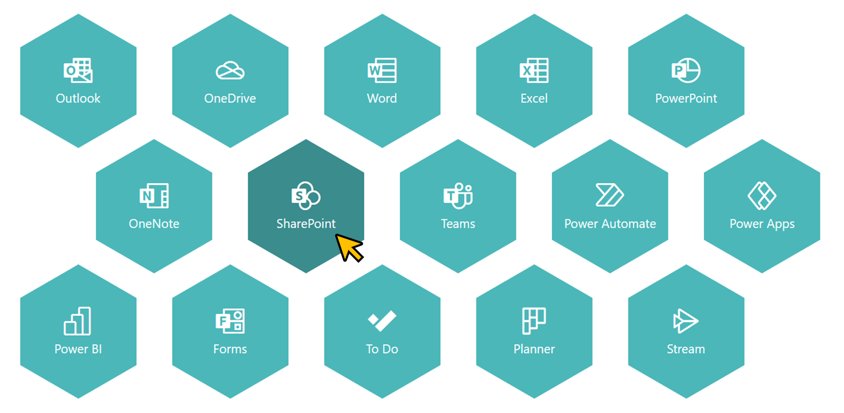
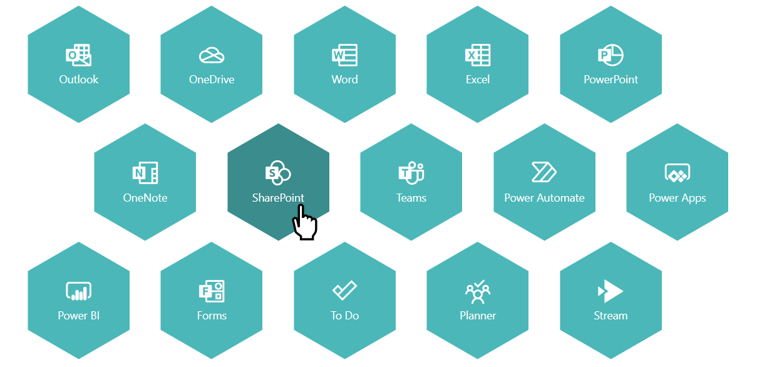
Fixed a layout collapse when opened in Microsoft Lists App (#809)

diff --git a/view-samples/honeycomb-link/README.md b/view-samples/honeycomb-link/README.md
@@ -26,6 +26,7 @@ Version |Date         |Comments
 1.0     |July 5, 2021 |Initial release
 1.1     |June 11, 2022|Fixed where to apply mouse hover effect
 1.2     |March 29, 2023|Fixed links not displaying when using List Web Part
+1.3     |June 11, 2024|Fixed a layout collapse when opened in Microsoft Lists App
 
 ## Disclaimer
 **THIS CODE IS PROVIDED *AS IS* WITHOUT WARRANTY OF ANY KIND, EITHER EXPRESS OR IMPLIED, INCLUDING ANY IMPLIED WARRANTIES OF FITNESS FOR A PARTICULAR PURPOSE, MERCHANTABILITY, OR NON-INFRINGEMENT.**
